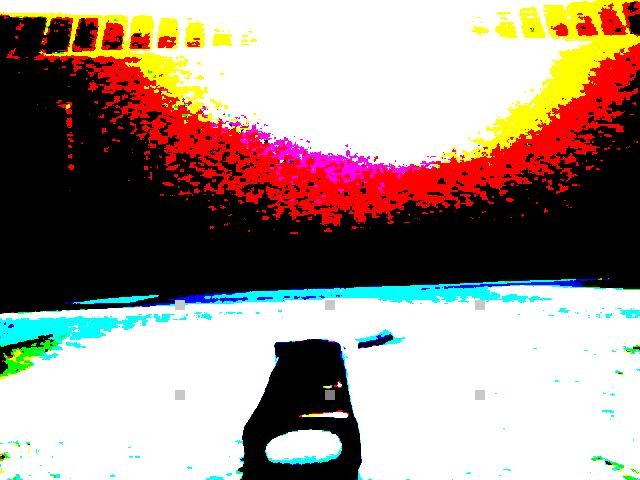
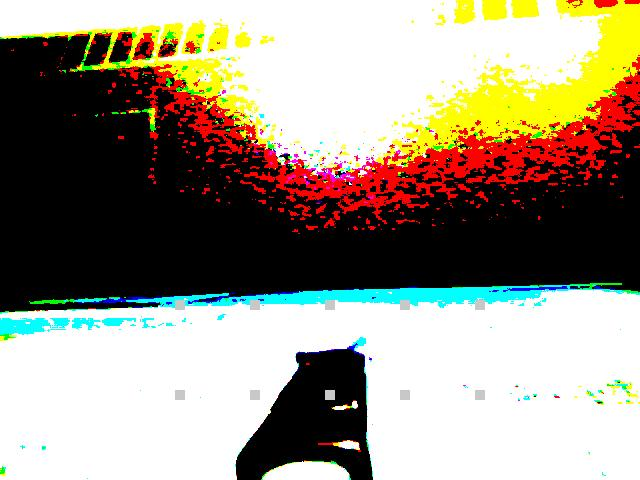
Add files via upload

diff --git a/imagecv.py b/imagecv.py
@@ -1,0 +1,82 @@
+import cv2
+import time
+import numpy
+# Camera 0 is the integrated web cam on my netbook
+camera_port = 0
+ 
+#Number of frames to throw away while the camera adjusts to light levels
+ramp_frames = 30
+ 
+# Now we can initialize the camera capture object with the cv2.VideoCapture class.
+# All it needs is the index to a camera port.
+camera = cv2.VideoCapture(camera_port)
+ 
+# Captures a single image from the camera and returns it in PIL format
+def get_image():
+ # read is the easiest way to get a full image out of a VideoCapture object.
+ retval, im = camera.read()
+ return im
+ 
+# Ramp the camera - these frames will be discarded and are only used to allow v4l2
+# to adjust light levels, if necessary
+for i in xrange(ramp_frames):
+ temp = get_image()
+while(True):
+    print("Taking image...")
+    # Take the actual image we want to keep
+    camera_capture = get_image()
+    file = "/home/car/test_image.png"
+    
+    # A nice feature of the imwrite method is that it will automatically choose the
+    # correct format based on the file extension you provide. Convenient!
+    cv2.imwrite(file, camera_capture)
+     
+    # You'll want to release the camera, otherwise you won't be able to create a new
+    # capture object until your script exits
+    #del(camera)
+    im = camera_capture
+    print(im.shape)
+    height, width, channel = im.shape
+    cv2.imshow('image color', im)
+    # im2 = im
+    # cv2.imshow('image', im)
+    ifilter = 170
+    im[im >= ifilter]= 255
+    im[im < ifilter] = 0
+    r,g,b = im[395,330]
+    if( g == 255 or g == 255 and b == 255):
+        print("This might be green!")
+    print(im[395,330])
+    
+    for x in range(300,310): 
+        for y in range(325,335): 
+            im[x,y] = 200
+        for y in range(400,410): 
+            im[x,y] = 200
+        for y in range(475,485):
+            im[x,y] = 200
+        for y in range(250,260): 
+            im[x,y] = 200
+        for y in range(175,185):
+            im[x,y] = 200
+            
+    for x in range(390,400): 
+        for y in range(325,335): 
+            im[x,y] = 200
+        for y in range(400,410): 
+            im[x,y] = 200
+        for y in range(475,485):
+            im[x,y] = 200
+        for y in range(250,260): 
+            im[x,y] = 200
+        for y in range(175,185):
+            im[x,y] = 200
+    #im.save("/home/pi/Desktop/filteredimg.jpeg")
+    from PIL import Image
+    img =Image.fromarray(im)
+    img.save("/home/pi/Desktop/filteredimg.jpeg")
+    cv2.imshow('image color removal', im)
+    
+    #time.sleep(5)
+    cv2.waitKey(0)
+    cv2.destroyAllWindows()
